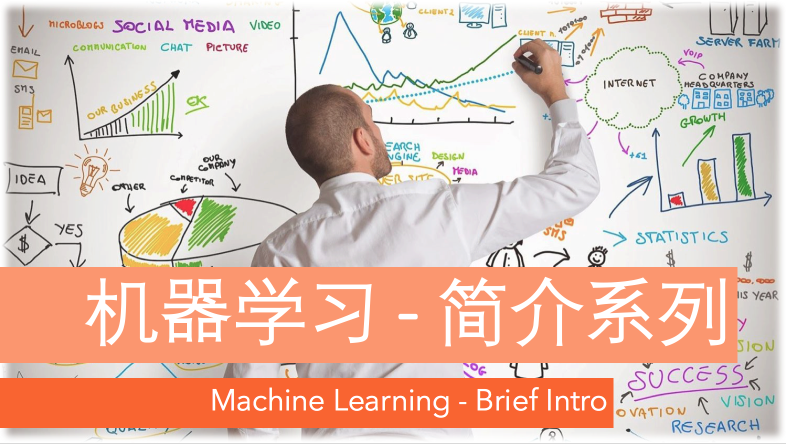
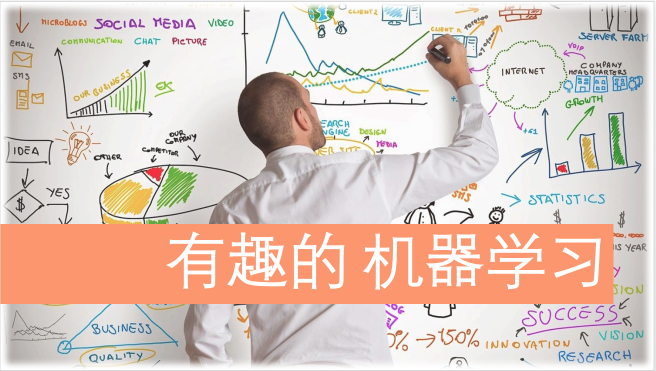
change ML-intro name

diff --git a/_contents/pages/tutorial-home-page/2-machine_learning.md b/_contents/pages/tutorial-home-page/2-machine_learning.md
@@ -5,7 +5,7 @@ tut-dir: /tutorials/machine-learning/
 ---
 [*机器学习*]({{page.tut-dir}}) 的教程方面, 
 汇集了很多近些年来比较流行的 python 模块教程. 
-而且对于没有机器学习背景的朋友们, 我也专门制作了 [*机器学习-简介系列*](/tutorials/machine-learning/ML-intro/). 
+而且对于没有机器学习背景的朋友们, 我也专门制作了 [*有趣的机器学习*](/tutorials/machine-learning/ML-intro/). 
 让你对机器学习的每种方法都有迅速地理解. 对于已经入门了的同学们, 
 *机器学习-简介系列* 也是一个提升自己应用机器学习的好地方, 
 因为里面同时也介绍了很多种机器学习的技巧方法, 大大帮助提升学习效果.

diff --git a/_contents/pages/module-descriptions/machine-learning/1-ML_brief_intro.md b/_contents/pages/module-descriptions/machine-learning/1-ML_brief_intro.md
@@ -1,9 +1,9 @@
 ---
-title: 机器学习-简介系列
+title: 有趣的机器学习
 icon-dir: /static/img/icon/ML_intro_icon.png
 tut-dir: /tutorials/machine-learning/ML-intro/
 ---
-[*机器学习-简介系列*]({{page.tut-dir}})
+[*有趣的机器学习*]({{page.tut-dir}})
 里的前半部分囊括了近些年来比较流行的机器学习方法的介绍, 每段介绍简洁精炼, 没有废话, 是快速入门的好途径.
 同时, 后半部分的内容注重在如何提升机器学习的效率, 调整机器学习的模式等, 适合于已经入门机器学习,
 却还没有找到好方法去运用机器学习的同学们.
